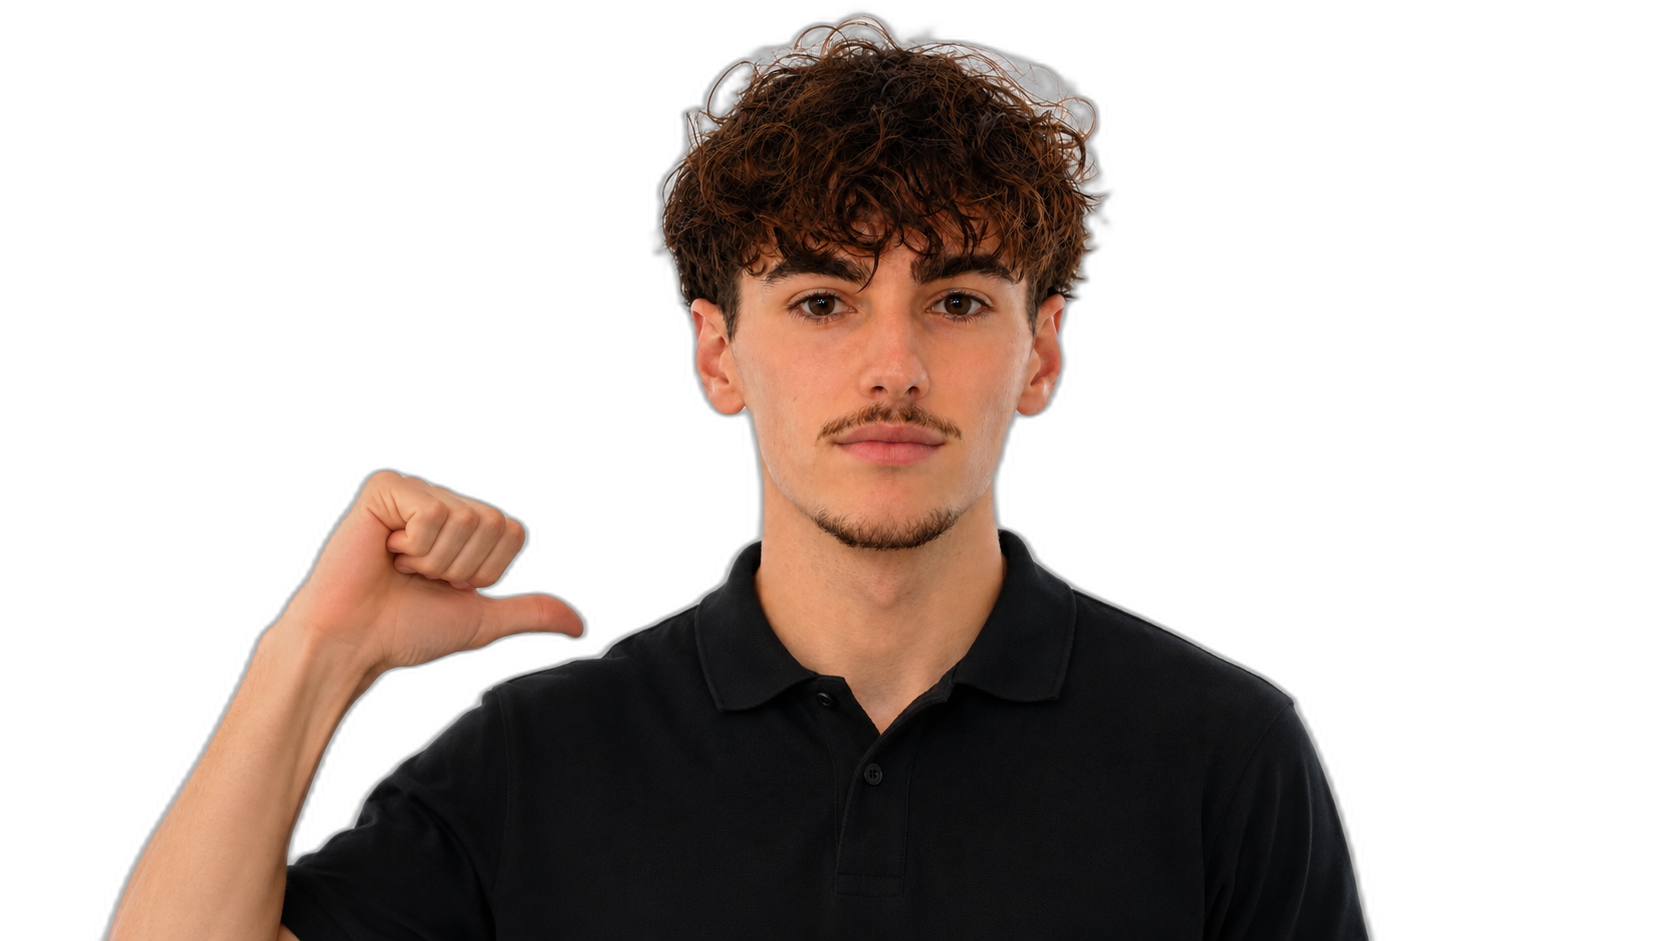
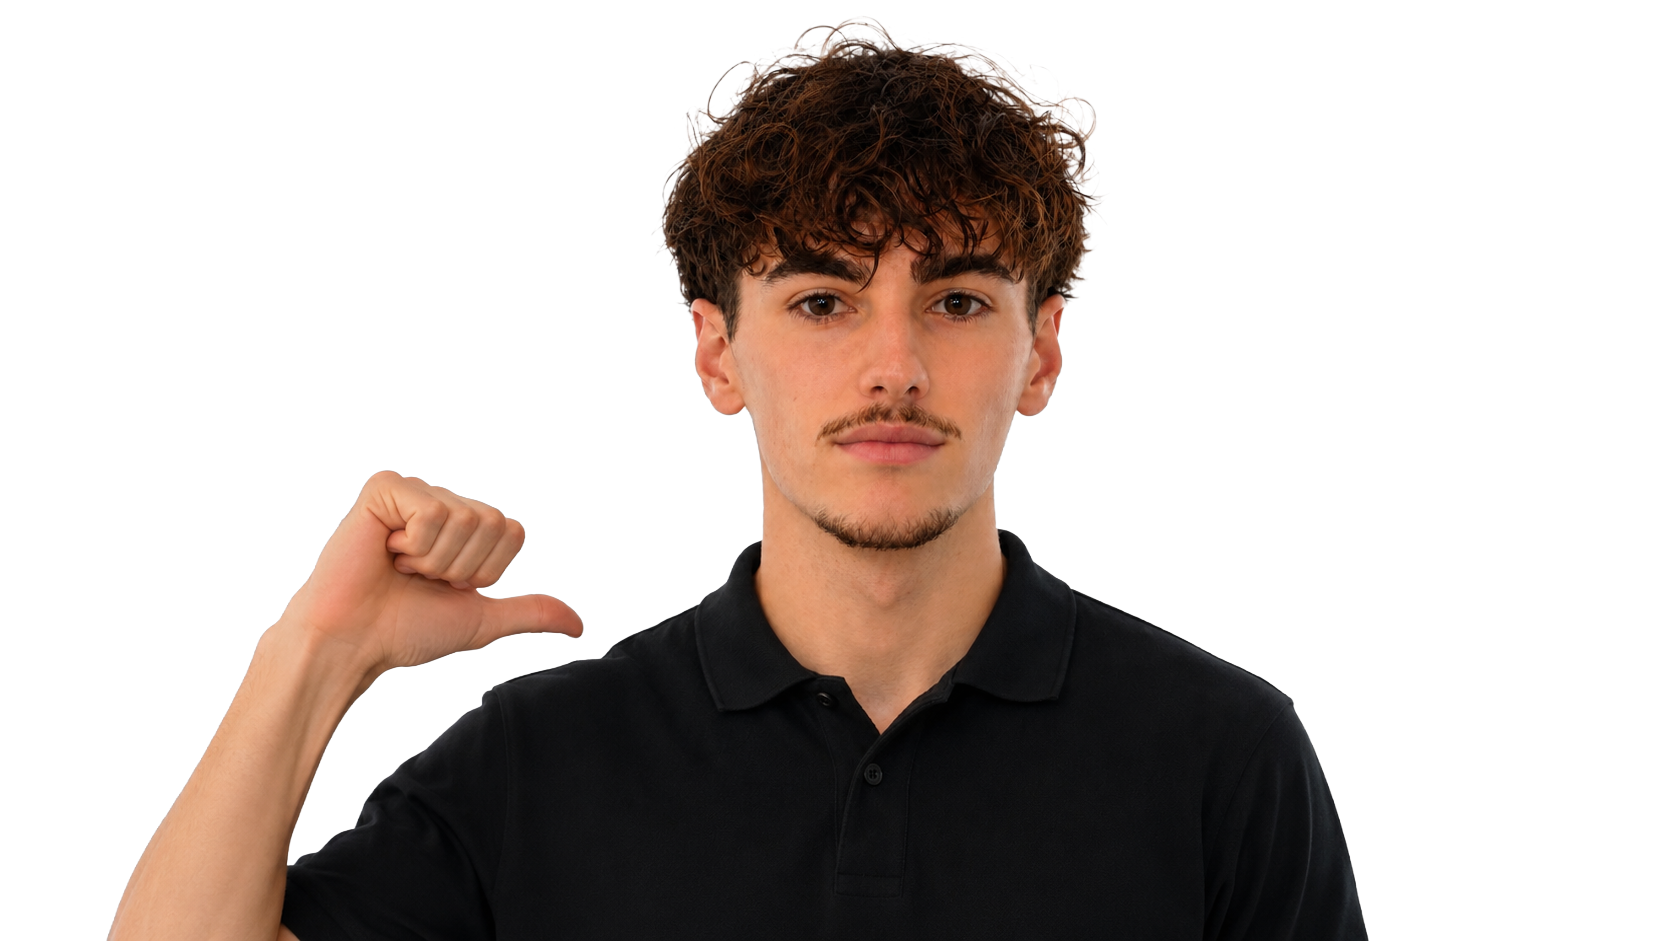
Fix image layering behind header text in Built by me section

diff --git a/Regan-portfolio/src/components/Projects.tsx b/Regan-portfolio/src/components/Projects.tsx
@@ -242,27 +242,35 @@ export default function Projects() {
           <div className="studio-label w-fit border border-[#FFD000]/30 bg-[#FFD000]/5 px-3 py-2 text-[10px] font-semibold text-[#FFD000]">
             02 / Featured Work
           </div>
-          <div className="md:text-right relative">
-            <h2 className="display-font text-4xl sm:text-5xl md:text-7xl font-bold leading-none">
-              <span className="gradient-text">Built by me</span>
-            </h2>
-            <p className="mt-3 text-white/45">
-              Real products and results across software, content, and design.
-            </p>
-            {/* Pop-out photo */}
+          {/* Wrap in relative container with overflow hidden so image rises from behind */}
+          <div className="relative md:text-right overflow-hidden">
+            {/* Image behind text — z-0 */}
             <motion.div
-              initial={{ opacity: 0, y: 60, scale: 0.85 }}
-              whileInView={{ opacity: 1, y: 0, scale: 1 }}
-              viewport={{ once: true, margin: "-50px" }}
-              transition={{ duration: 0.7, ease: [0.23, 1, 0.32, 1], delay: 0.2 }}
-              className="absolute -bottom-2 right-0 md:-bottom-4 pointer-events-none select-none"
+              initial={{ y: "100%", opacity: 0 }}
+              whileInView={{ y: "0%", opacity: 1 }}
+              viewport={{ once: true, margin: "-40px" }}
+              transition={{ duration: 0.85, ease: [0.23, 1, 0.32, 1], delay: 0.15 }}
+              className="absolute bottom-0 right-0 z-0 pointer-events-none select-none"
             >
               <img
                 src="/regan-builtbyme.png"
                 alt="Regan"
-                className="h-48 sm:h-60 md:h-72 w-auto object-contain drop-shadow-2xl"
+                className="h-44 sm:h-56 md:h-72 w-auto object-contain"
               />
             </motion.div>
+
+            {/* Text on top — z-10 */}
+            <div className="relative z-10">
+              <h2 className="display-font text-4xl sm:text-5xl md:text-7xl font-bold leading-none">
+                <span className="gradient-text">Built by me</span>
+              </h2>
+              <p className="mt-3 text-white/45">
+                Real products and results across software, content, and design.
+              </p>
+            </div>
+
+            {/* Spacer so image has room to show below text */}
+            <div className="h-36 sm:h-44 md:h-56" />
           </div>
         </motion.div>
 
